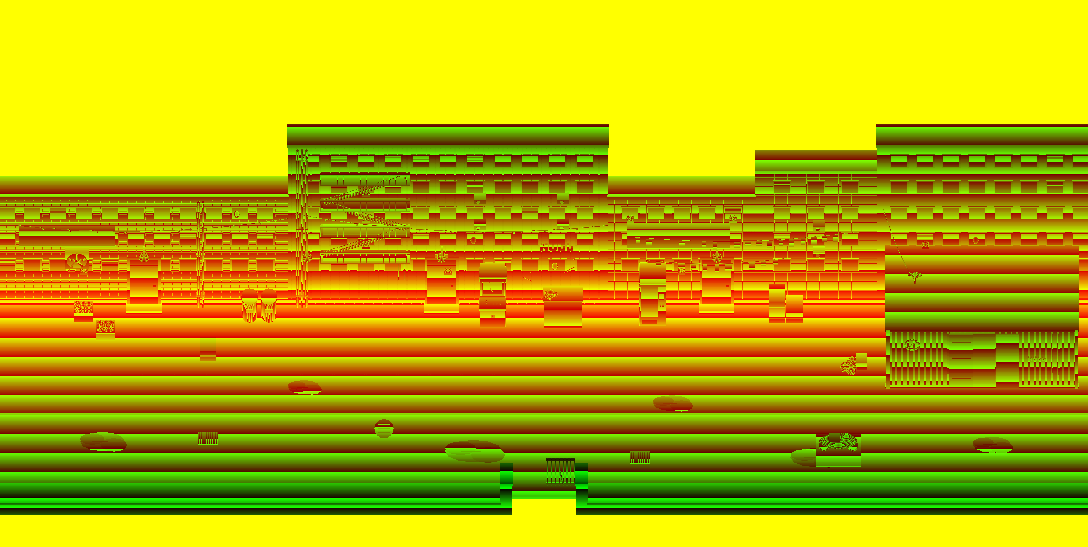
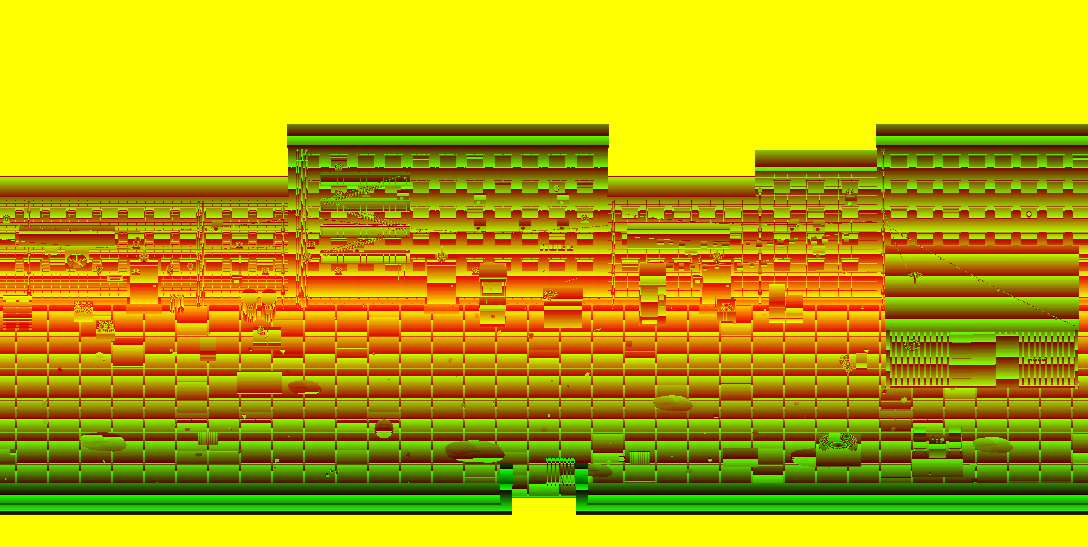
Arcadia: rebuild the Backs to Look Book 2
Old concrete flags, cracked and sunk, a stone gutter down the middle with water
standing in it, asphalt patches, weeds and litter, all wet after the rain (the
mirror passes). Pipes, meter boxes, AC units, signs and sill plants up the back
walls; pallets, gas bottles, a ginger cat on the crates and a bowl put out for
the black one, a rat, a shopping trolley, NULL's crew's chairs round an upturned
crate by the container, a neon arrow pointing the way to it, more cables and
string lights. Every interaction, the cook and the gate stay where they were.

Claude-Session: https://claude.ai/code/session_016FbSGDt5mzHjFPNtpgcFwC

diff --git a/tools/bridge-art/scenes/arcadia_alley.py b/tools/bridge-art/scenes/arcadia_alley.py
@@ -23,6 +23,8 @@ import assets_backs as B               # noqa: E402
 import assets_cyber as Y               # noqa: E402
 import assets_district as D            # noqa: E402
 import assets_signs as S               # noqa: E402
+import assets_arcadia_rich as AR       # noqa: E402
+import random                          # noqa: E402
 
 OUT = sys.argv[1]
 ROOT = os.path.abspath(os.path.join(os.path.dirname(__file__), '..', '..', '..'))
@@ -33,16 +35,23 @@ RF = 7.0          # the back walls' faces; the lane rows 7-12, the low wall with
 k = Kit(COLS, ROWS, margin_top=2.5, margin_bottom=0.6, seed=313)
 st = D.Street()
 
-# ---- the lane ---------------------------------------------------------------------------------------
-Y.tile_floor(k, -0.5, RF, COLS + 0.5, 13.0, tones=('#2c2838', '#302c3e'), size=1.0, seam='#141020')
-k.box(-0.5, 10.4, 0.0, COLS + 0.5, 10.48, 0.004, '#16121e', 'gutter')
-for (x, r, rx, ry, tint) in ((3.2, 11.3, 0.7, 0.3, '#ffb050'), (9.5, 9.6, 0.5, 0.22, Y.PINK), (14.8, 11.6, 0.9, 0.35, Y.CYAN),
-                             (21.0, 10.1, 0.6, 0.25, Y.PINK), (25.5, 11.8, 0.8, 0.3, '#e040c0'), (31.0, 11.4, 0.6, 0.25, '#e040c0')):
-    Y.puddle(k, x, r, rx, ry, tint=tint)
-D.steam_grate(k, st, 6.5, 11.2)
-D.steam_grate(k, st, 20.0, 11.8)
-Y.manhole(k, 12.0, 10.9)
+# ---- the lane: old concrete flags, cracked and sunk, a stone gutter down the middle with water in it ---------------------
+gr = random.Random(3130)                                      # the ground's own dice
+k.wet = dict(AR.WET, paving=0.16)
+AR.paving(k, -0.5, RF, COLS + 0.5, 13.0, size=1.0, rng=gr, tones=('#34303c', '#2d2a35', '#3a353e', '#302b36'), seam='#211d29',
+          crack=0.18, sunk=0.06, stain=0.12)
+AR.channel(k, -0.5, COLS + 0.5, 10.45)
+AR.puddles(k, ((3.2, 11.3, 0.7, 0.3, '#ffb050'), (9.5, 9.6, 0.5, 0.22, Y.PINK), (14.8, 11.6, 0.9, 0.35, Y.CYAN),
+               (21.0, 10.1, 0.6, 0.25, Y.PINK), (25.5, 11.8, 0.8, 0.3, '#e040c0'), (31.0, 11.4, 0.6, 0.25, '#e040c0'),
+               (18.6, 12.2, 0.5, 0.2, Y.CYAN)))
+for (x, r) in ((6.5, 11.2), (20.0, 11.8)):
+    AR.grate(k, st, x, r)
+AR.manhole(k, 12.0, 10.9)
 st.vent(12.0, 10.9)
+for (x, r, w, d) in ((7.4, 9.1, 1.4, 0.7), (22.6, 11.5, 1.1, 0.6), (28.5, 11.6, 1.6, 0.8)):      # patched with asphalt
+    k.box(x, r, 0.0, x + w, r + d, 0.004, ('#221e2a', 0.12), 'road_patch')
+AR.weeds(k, [(gr.uniform(0, COLS), gr.choice((7.12, 7.15, 12.9, gr.uniform(7.3, 12.8)))) for _ in range(40)], rng=gr)
+AR.flyers(k, -0.3, RF + 0.2, COLS + 0.3, 12.8, 45, rng=gr)
 
 # ---- the backs ---------------------------------------------------------------------------------------
 # Cyber Noodles: brick, the kitchen door, the extractor, cabbages, the cook on his crate
@@ -102,6 +111,36 @@ D.cable(k, (28.6, 8.2, 2.7), (27.6, RF + 0.2, 4.5), sag=0.3)
 D.trash_pile(k, 26.6, 9.0)
 Y.hover_bike(k, 26.2, 11.6)
 
+# ---- dressing up the walls and along them -------------------------------------------------------------------------------
+for (x, z1) in ((0.9, 4.6), (8.85, 4.5), (19.15, 4.6), (23.75, 5.2), (27.6, 7.0)):
+    AR.pipe(k, x, RF, 0.0, z1, col='#3a3a46')
+AR.meter_box(k, 7.4, RF, 0.9)
+AR.meter_box(k, 21.8, RF, 0.9)
+AR.wall_sign(k, 3.6, RF + 0.02, 1.15, 0.5, 0.26, '#ffb050', rng=gr)          # STAFF ONLY
+AR.wall_sign(k, 12.6, RF + 0.02, 2.0, 0.34, 0.22, Y.RED, rng=gr)
+for (x, z) in ((1.6, 2.4), (6.8, 3.55), (11.2, 2.6), (12.6, 4.9), (16.4, 3.6), (21.6, 2.4), (24.8, 3.55), (26.6, 4.7)):
+    D.ac_unit(k, x, RF, z)
+AR.sill_plants(k, (3.1, 5.3), RF, 1.48, rng=gr)
+AR.neon_arrow(k, 26.0, RF + 0.02, 1.55, w=1.0)                                  # someone's neon: this way to the container
+AR.neon_arrow(k, 27.4, RF + 0.02, 1.55, w=0.6)
+k.point_light(26.6, RF + 0.5, 1.4, '#e040c0', 8, radius=0.2, group='flicker')
+# along the foot of the walls (clear of the doors and the talk spots)
+AR.pallets(k, 0.1, RF + 0.08, n=4)
+AR.gas_bottles(k, 5.4, RF + 0.2)
+k.solid(5.3, RF + 0.1, 5.74, RF + 0.3)
+B.crate_stack(k, 7.9, RF + 1.0, n=2, s=0.45)
+AR.cat(k, 8.15, RF + 1.2, z=0.38, col='#c87a30')                                # a ginger cat on the crates
+k.cyl(16.6, RF + 1.0, 0.0, 0.03, 0.09, '#c8c8d0', 'cat_bowl', verts=10)        # a bowl put out for the black one
+k.cyl(16.6, RF + 1.0, 0.03, 0.035, 0.07, '#7a4a30', 'cat_food', verts=10)
+AR.rat(k, 18.7, RF + 0.82)
+AR.shopping_trolley(k, 22.7, RF + 0.45)
+k.solid(22.3, RF + 0.2, 23.1, RF + 0.7)
+AR.chairs_and_crate(k, 29.3, 11.6, rng=gr)                                        # NULL's crew sits out by the container
+AR.pigeons(k, 10.5, 12.4, n=3, rng=gr)
+D.cable(k, (27.6, RF + 0.3, 4.0), (33.6, 9.6, 2.7), sag=0.2, lights=('#e040c0', '#ffd890'), n=10)
+D.cable(k, (0.0, RF + 0.3, 3.3), (9.0, RF + 0.3, 3.0), sag=0.3, n=8)
+D.cable(k, (19.0, RF + 0.3, 4.5), (27.4, RF + 0.3, 4.1), sag=0.35, lights=(Y.CYAN, Y.PINK), n=10)
+
 # the low wall at the front, the gate open onto the street
 B.low_wall(k, -0.5, 15.64, 13.0)
 B.low_wall(k, 18.36, COLS + 0.5, 13.0)
@@ -116,7 +155,7 @@ k.point_light(23.5, 10.5, 3.0, '#ff80c0', 60, radius=0.6, group='flicker')
 k.point_light(30.5, 11.0, 2.4, '#e040c0', 70, radius=0.5, group='flicker')
 k.point_light(1.5, 11.0, 2.6, '#ffb070', 40, radius=0.5, group='flicker')
 k.area_light(COLS / 2, 13.5, 6.0, '#8070c0', 60, 30.0, rot=(math.radians(40), 0, 0))     # glow off the street
-k.render(OUT, light_states={'full': {'flicker': 1.0}, 'dim': {'flicker': 0.78}}, light_samples=128,
+k.render(OUT, light_states={'full': {'flicker': 1.0}, 'dim': {'flicker': 0.78}}, light_samples=int(os.environ.get('ARC_SAMPLES', 128)),
          world_light=('#2a2048', 0.8))
 
 # ---- the world -------------------------------------------------------------------------------------

diff --git a/_claude_docs/requests.md b/_claude_docs/requests.md
@@ -18,7 +18,7 @@ a new place*).
 | The normal faces (not the round ones) on the people | **done** (NPCs and crowd); pilots rendering | Painted faces on every sheet (`characters.py` projects the face's points, `sprites_post.py` paints them: eyes with a catch-light, brows, a smile, blush; idle3 a blink, and everyone blinks now and then). All 131 NPCs and the crowd's bodies are on main; the pilots' 1,050 sheets are rendering and follow. |
 | A face in the talk portrait, Stardew-style (not the top of a hat) | **done** | `tools/bridge-art/portraits.py`: 64 × 64 face-on portraits for every NPC, crowd body and pilot head, five expressions (neutral, happy, surprised, sad, blink) that follow the conversation; ×2 on a desktop, ×1 on a phone; the same faces, halved, in the ledger and on the staff board. |
 | **Backlog** — re-render the outdoor places with live light and the toy finish | in progress (nine sessions, Oct 17) | Done: the Market Square. To do — Lumar: Diggen's Point (`lumar_harbor`), Crownhaven, Tern Holm, Starling Holm, Rose Cove, Sapphire Port, Crimson Reach. Verdance: the farm, Brambleford. Hoarfell: Fellhaven, the pistes, the Park, the face, the summit, the Last Ridge, the Ice Step. Sylvara: Elderglade. (Midnight Isle and Arcadia never see the sun: the toy finish only.) |
-| **Backlog** — re-render the interiors and night places in the toy finish | open | Done: the bakery. To do: every other scene in `tools/bridge-art/scenes/` (taverns, shops, homes, the ship, the stations, the casino, Arcadia's streets, Midnight Isle, the mines and caves). |
+| **Backlog** — re-render the interiors and night places in the toy finish | open | Done: the bakery, Arcadia's District street and the Backs (rebuilt, wet after the rain). To do: every other scene in `tools/bridge-art/scenes/` (taverns, shops, homes, the ship, the stations, the casino, Arcadia's Skywalk and Skyport 7, Midnight Isle, the mines and caves). |
 | **Backlog** — rebuild the places as richer dioramas, world by world | in progress (exteriors: nine sessions, one per area, `_claude_docs/prompt-bridge-rebuild.md`) | Shaped land, layered vegetation, the house kit, small life (the reference dioramas' standard; `tools/bridge-art/dioramas/ref/`). Interiors later. Start with the farm and Brambleford (Millpond Farm shows the way), then Lumar's towns, Elderglade, Fellhaven. |
 | **Backlog** — faces on every sheet, pilots included | open | Whatever the first pass doesn't reach (the pilots' sport and attack sheets, the crowd, event sheets). |
 | **Backlog** — the sea under live light: reflections of islands, ships and the sky | open | js/sea.js draws the sea over the relit seabed; Look Book's mirrored reflections for the open water and harbours. |
